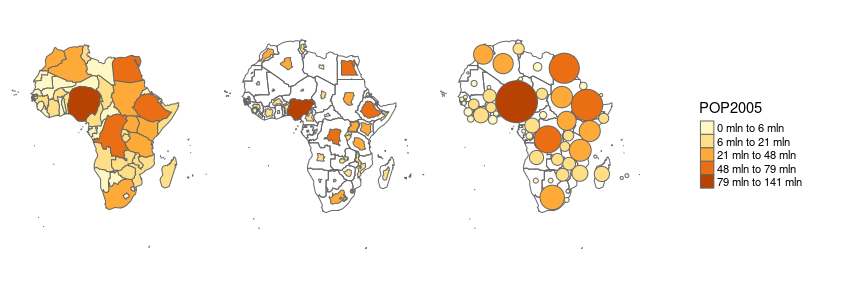
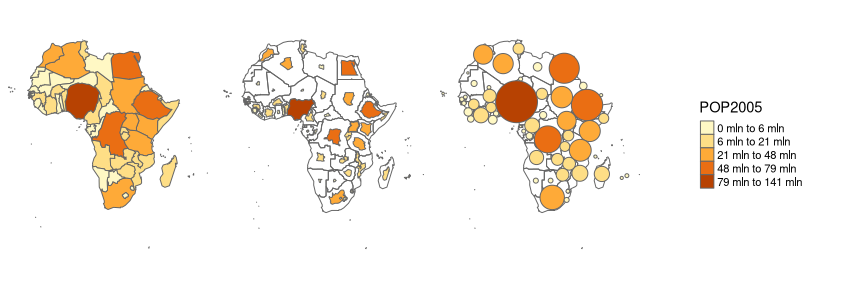
update news

Changed region(s): [[0.0312, 0.125, 0.2188, 0.7188], [0.8125, 0.4375, 0.9375, 0.6562], [0.8125, 0.3438, 0.9062, 0.4062]]

diff --git a/README.md b/README.md
@@ -29,6 +29,9 @@ devtools::install_github("sjewo/cartogram")
 
 ## NEWS
 
+  - \[0.2.0\] Migrated all functions to sf, fixed problems with
+    multipolygons. cartogram functions won’t accept features with
+    longitude/latitude coordinates anymore.
   - \[0.1.1\] Speedup sf code
   - \[0.1.0\] Non-Overlapping Circles Cartogram (Dorling)
   - \[0.0.3\] sf support added
@@ -55,11 +58,13 @@ afr <- spTransform(afr, CRS("+init=epsg:3395"))
 
 # construct cartogram
 afr_cont <- cartogram_cont(afr, "POP2005", itermax = 5)
+#> Warning in CPL_crs_from_proj4string(x): GDAL Message 1: +init=epsg:XXXX syntax
+#> is deprecated. It might return a CRS with a non-EPSG compliant axis order.
 #> Mean size error for iteration 1: 5.79457153280442
-#> Mean size error for iteration 2: 4.99349670513046
-#> Mean size error for iteration 3: 4.39148731971216
-#> Mean size error for iteration 4: 3.92873533652118
-#> Mean size error for iteration 5: 3.56785782735669
+#> Mean size error for iteration 2: 4.94825547349441
+#> Mean size error for iteration 3: 4.32626995057149
+#> Mean size error for iteration 4: 3.84940324694301
+#> Mean size error for iteration 5: 3.45917774259599
 
 # plot it
 tm_shape(afr_cont) + tm_polygons("POP2005", style = "jenks") +
@@ -106,7 +111,10 @@ Thanks to @Nowosad for speeding things up\!
 
 ``` r
 library(sf)
-#> Linking to GEOS 3.7.0, GDAL 2.3.2, PROJ 5.2.0
+#> Linking to GEOS 3.8.0, GDAL 3.0.2, PROJ 6.2.0
+#> WARNING: different compile-time and runtime versions for GEOS found:
+#> Linked against: 3.8.0-CAPI-1.13.1  compiled against: 3.7.2-CAPI-1.11.2
+#> It is probably a good idea to reinstall sf, and maybe rgeos and rgdal too
 
 # Create an sf object
 afr_sf <- st_as_sf(afr)
